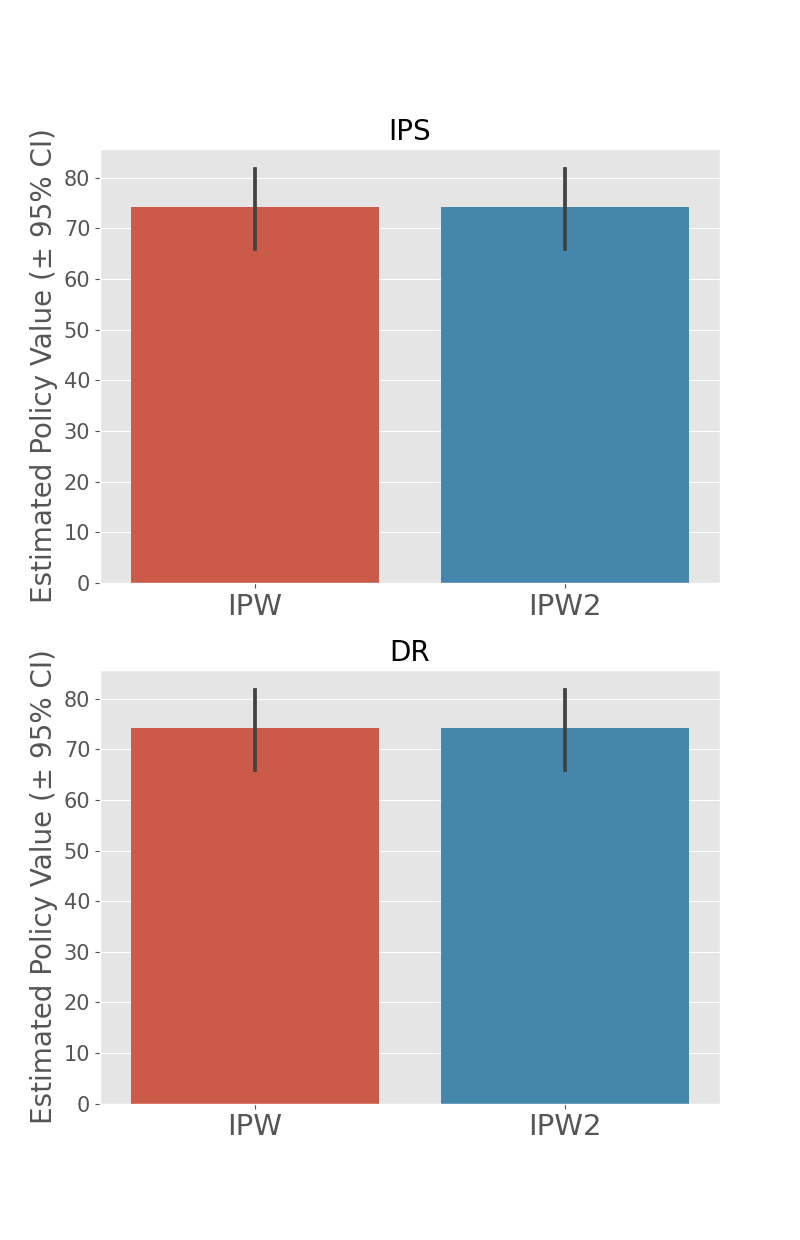
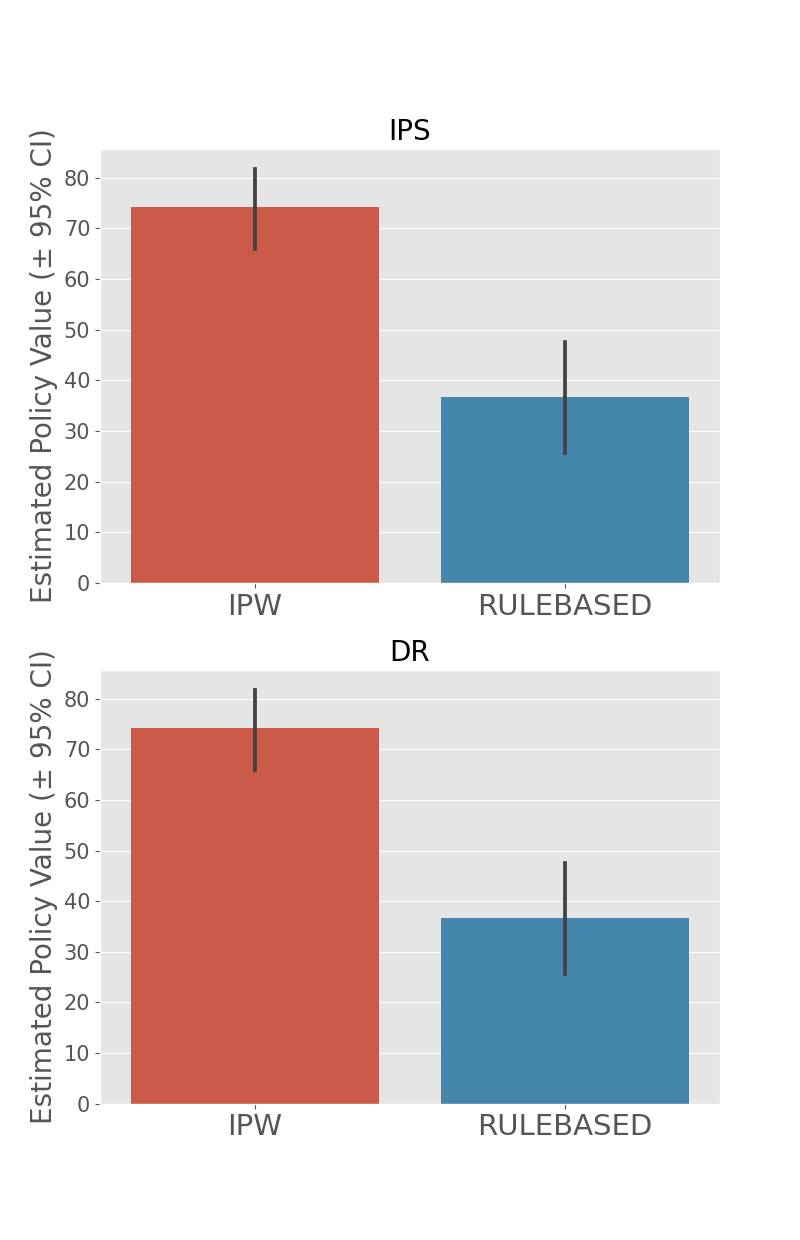
add rule based model

diff --git a/pokemon_ml_design/synthesize_data.py b/pokemon_ml_design/synthesize_data.py
@@ -13,7 +13,7 @@ from pokemon_ml_design.policy import rule_based_policy
 
 # 連続値をポケモンIDに変換する関数
 # 現状のSyntheticBanditDatasetは整数値のcontextを生成できないので、暫定対応
-def _get_pokemon_id(x: float) -> int:
+def get_pokemon_id(x: float) -> int:
     return (x * 10 ** 5).astype(int) % 151 + 1
 
 
@@ -23,7 +23,7 @@ def _reward_function(
     random_state: Optional[int] = None,
 ) -> np.ndarray:
 
-    pokemon_ids = _get_pokemon_id(context.flatten())
+    pokemon_ids = get_pokemon_id(context.flatten())
     pokemon_zukan = PokemonZukan()
 
     capture_probabilities = []
@@ -45,7 +45,7 @@ def _behavior_policy(
     action_context: np.ndarray,
     random_state: Optional[int] = None,
 ) -> np.ndarray:
-    pokemon_ids = _get_pokemon_id(context.flatten())
+    pokemon_ids = get_pokemon_id(context.flatten())
     policy = np.array([rule_based_policy(pokemon_id) for pokemon_id in pokemon_ids])
     return policy
 
@@ -54,7 +54,7 @@ def _update_reward(data: BanditFeedback) -> BanditFeedback:
     # 捕獲したかどうかのrewardになっている。
     # 捕獲した場合は謝礼金をもらえて、捕獲しなかった場合は何ももらえない
     # ボールのコストを差し引く
-    pokemon_ids = _get_pokemon_id(data['context'].flatten())
+    pokemon_ids = get_pokemon_id(data['context'].flatten())
     pokemon_zukan = PokemonZukan()
     rewards = np.array([pokemon_zukan.get_reward(pokemon_id) for pokemon_id in pokemon_ids])
     costs = np.array([ACTIONS[action_id].cost for action_id in data['action'].flatten()])

diff --git a/pokemon_ml_design/model.py b/pokemon_ml_design/model.py
@@ -6,7 +6,9 @@ from obp.policy import IPWLearner
 from obp.types import BanditFeedback
 from sklearn.linear_model import LogisticRegression
 
+from pokemon_ml_design.synthesize_data import get_pokemon_id
 from pokemon_ml_design.actions import ACTIONS
+from pokemon_ml_design.policy import rule_based_policy
 
 
 class BaseModel(metaclass=ABCMeta):
@@ -34,5 +36,23 @@ class IPWModel(BaseModel):
             pscore=data["pscore"],
         )
 
-    def predict(self, context: np.ndarray) -> List[int]:
+    def predict(self, context: np.ndarray) -> np.ndarray:
         return self._model.predict(context=context)
+
+
+class RuleBasedModel(BaseModel):
+    def __init__(self) -> None:
+        pass
+
+    def fit(self, data: BanditFeedback) -> None:
+        # 学習フェーズはない
+        pass
+
+    def predict(self, context: np.ndarray) -> np.ndarray:
+        pokemon_ids = get_pokemon_id(context.flatten())
+        predictions = []
+        for pokemon_id in pokemon_ids:
+            probabilities = rule_based_policy(pokemon_id)
+            prediction = np.random.multinomial(n=1, pvals=probabilities, size=1)[0]
+            predictions.append(prediction)
+        return  np.array(predictions)[:, :, np.newaxis]

diff --git a/main.py b/main.py
@@ -1,13 +1,22 @@
 from pokemon_ml_design.synthesize_data import synthesize_data
-from pokemon_ml_design.model import IPWModel
+from pokemon_ml_design.model import IPWModel, RuleBasedModel
 from pokemon_ml_design.evaluate import evaluate
 
 def main():
     training_data, validation_data = synthesize_data()
+
+    # TODO: モデルを追加しやすくする
+
     ipw_model = IPWModel()
+    rule_based_model = RuleBasedModel()
+
     ipw_model.fit(data=training_data)
-    action_choice_by_ipw_learner = ipw_model.predict(validation_data['context'])
-    evaluate(validation_data, action_choices=dict(IPW=action_choice_by_ipw_learner, IPW2=action_choice_by_ipw_learner))
+    rule_based_model.fit(data=training_data)
+
+    action_choice_by_ipw_model = ipw_model.predict(validation_data['context'])
+    action_choice_by_rule_based_model = rule_based_model.predict(validation_data['context'])
+
+    evaluate(validation_data, action_choices=dict(IPW=action_choice_by_ipw_model, RULEBASED=action_choice_by_rule_based_model))
 
 if __name__ == '__main__':
     main()

diff --git a/pokemon_ml_design/evaluate.py b/pokemon_ml_design/evaluate.py
@@ -15,7 +15,10 @@ from sklearn.linear_model import LogisticRegression
 from pokemon_ml_design.actions import ACTIONS
 
 
-def evaluate(validation_data: BanditFeedback, action_choices: Dict[str, List]):
+# TODO;実測値ベースの評価も行う？
+
+
+def evaluate(validation_data: BanditFeedback, action_choices: Dict[str, List]) -> None:
     # TODO: 意味を理解する
     # TODO: 必要に応じて分離する
 
